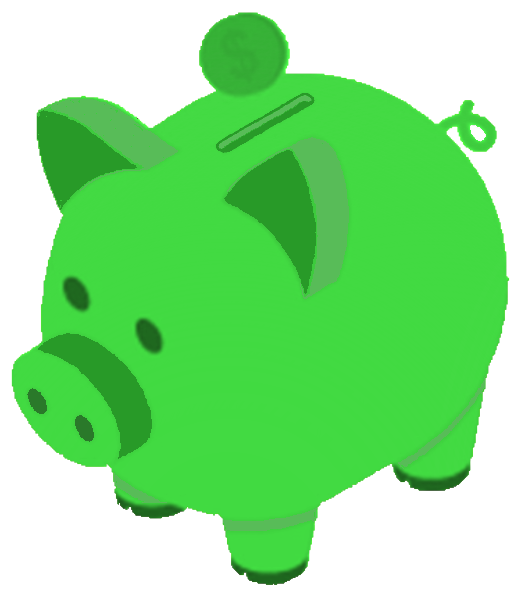
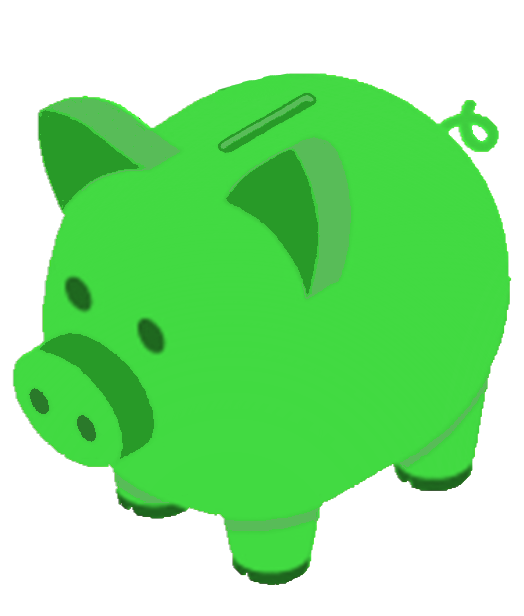
style: 💵 removed coin from pig

diff --git a/src/app/components/Goalpig.tsx b/src/app/components/Goalpig.tsx
@@ -24,7 +24,7 @@ const Goalpig: React.FC<GoalpigProps> = ({ current, max, goal }) => {
             <div className='text-3xl'>
             {goal}
             </div>
-            <div className='relative h-48 flex mt-2 justify-center items-center'>
+            <div className='relative h-48 flex justify-center items-center'>
                 <div className="absolute">
                     {/* Gris transparent image */}
                     <Image 
